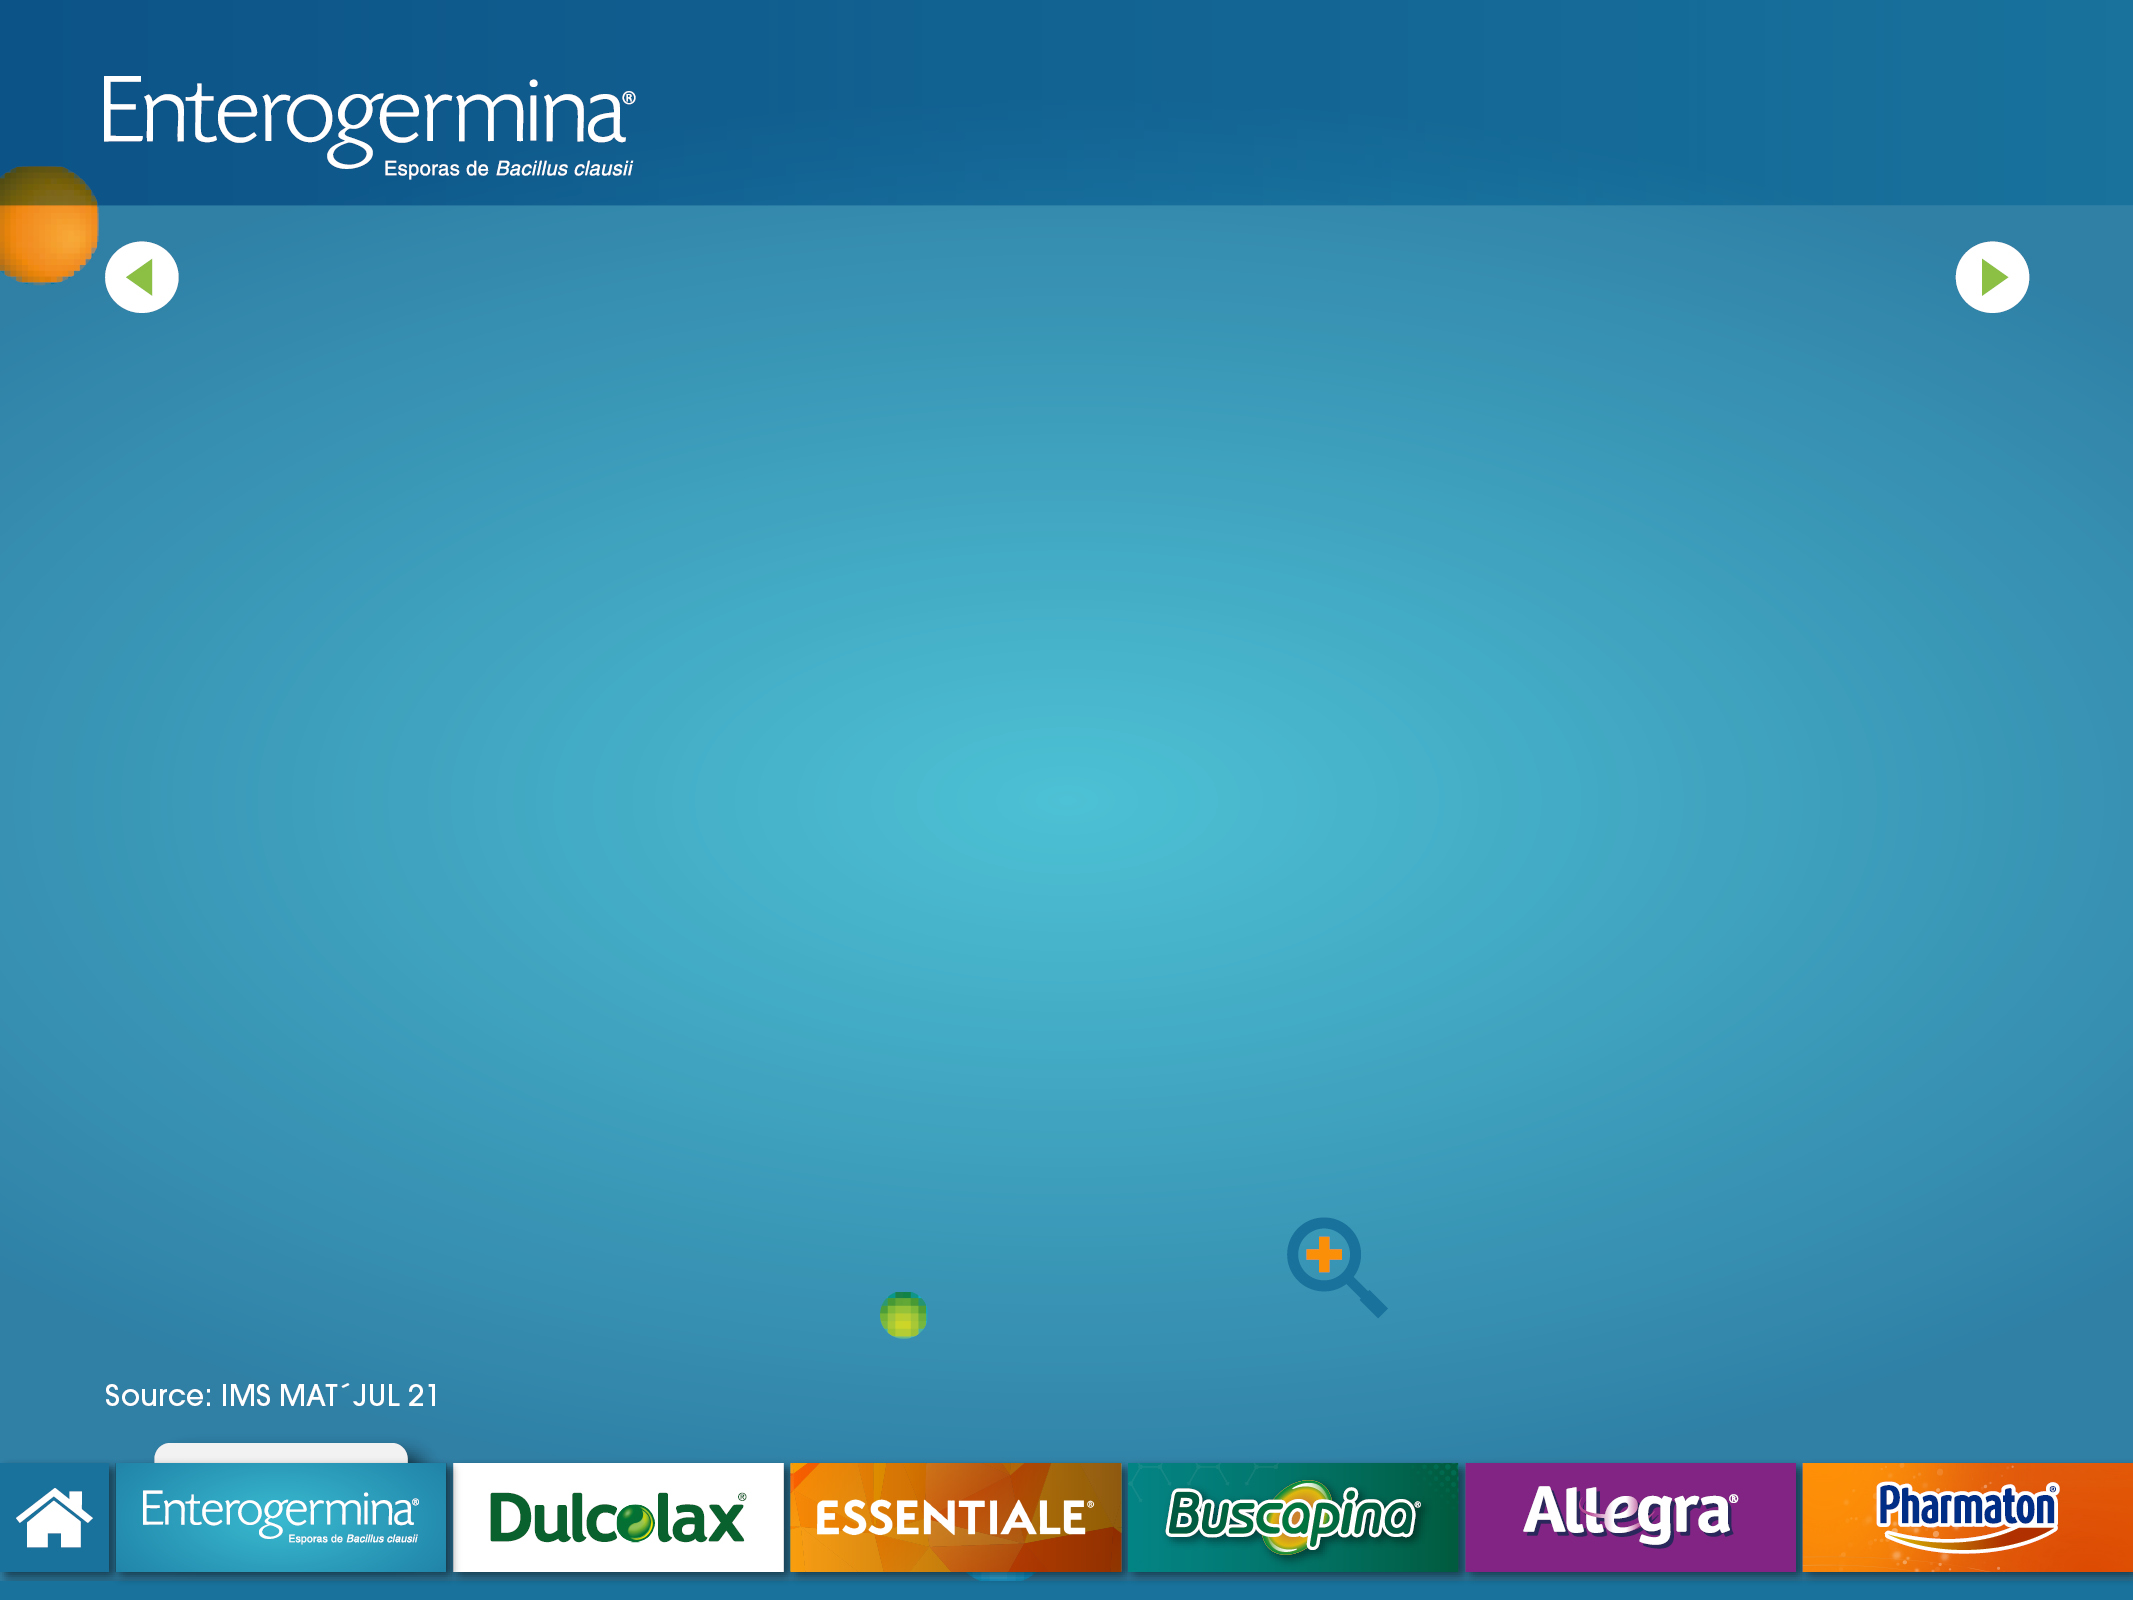
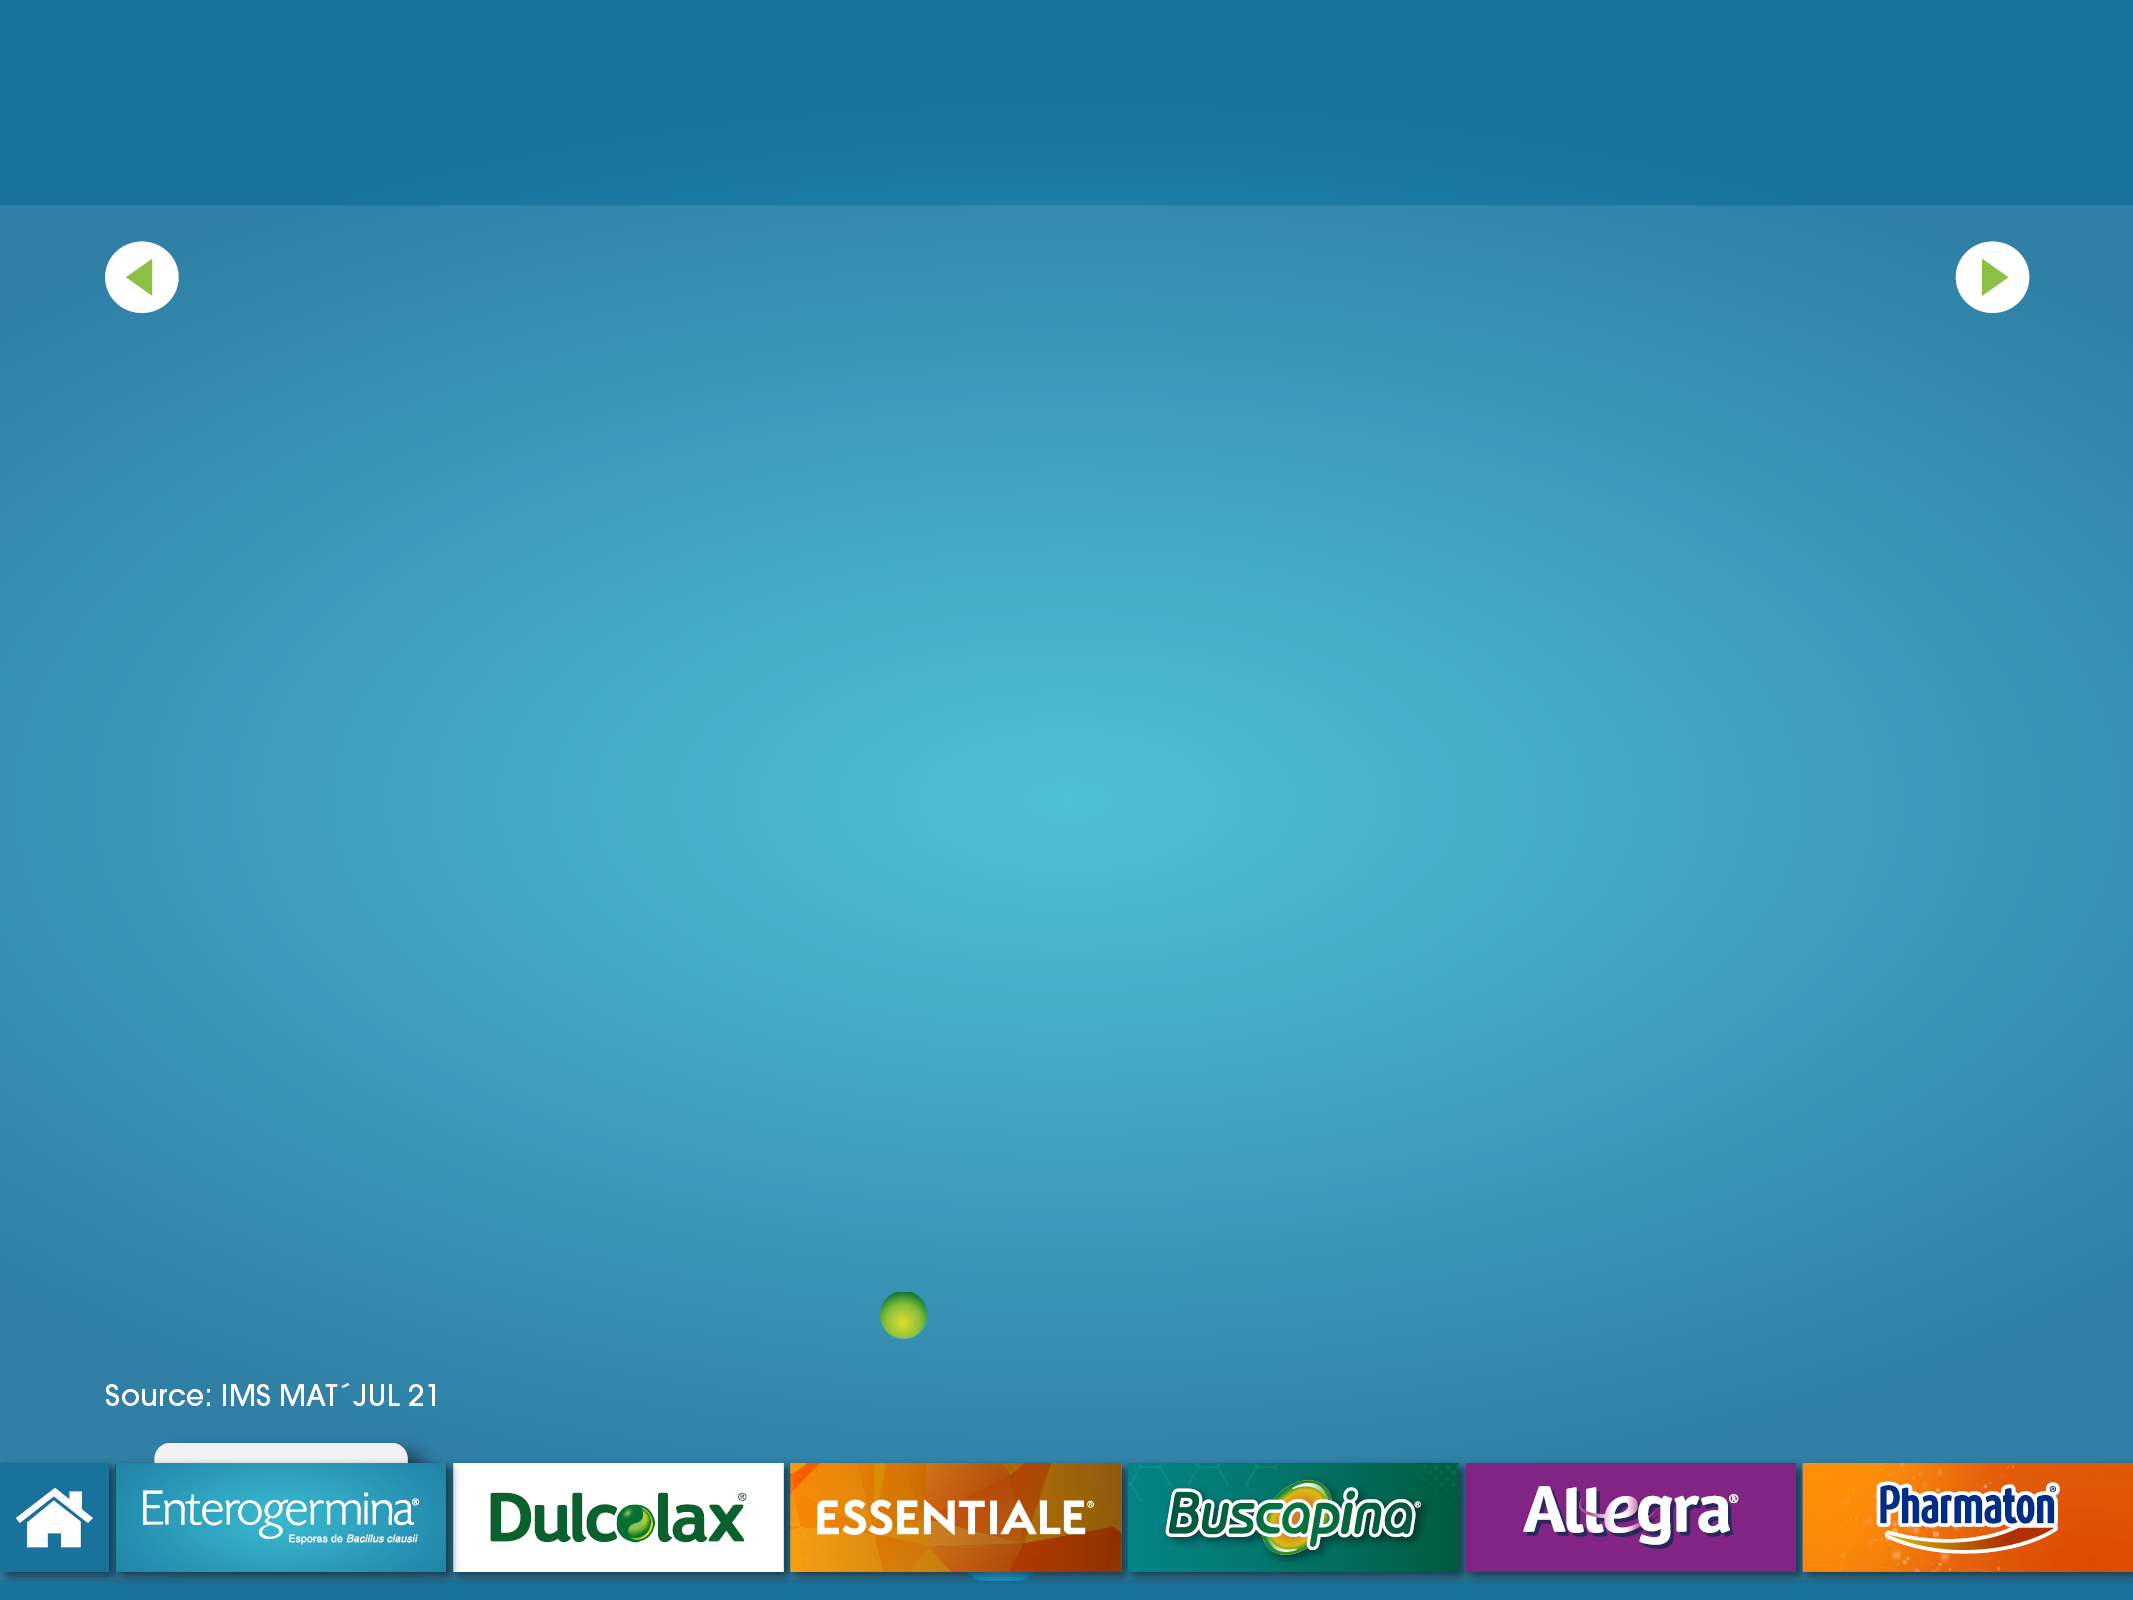
cambio colores

Changed region(s): [[0.0, 0.0, 0.3094, 0.1875], [0.5879, 0.75, 0.6498, 0.8125]]

diff --git a/src/views/enterogermina/slide03.vue b/src/views/enterogermina/slide03.vue
@@ -1,5 +1,8 @@
 <template>
   <div class="fondo4">
+    <div class="heder animate__animated animate__rotateInDownRight">
+      <img src="/images/header.png" alt="" />
+    </div>
     <div class="lat animate__animated animate__rotateInDownRight">
       <img src="/images/lat.png" alt="" />
     </div>
@@ -21,7 +24,9 @@
     <div class="espora_azul-123 animate__animated animate__fadeInDown">
       <img src="/images/bola-azul.png" alt="" height="9%" width="9%" />
     </div>
-
+    <div class="espora_naranja155 animate__animated animate__fadeInDown">
+      <img src="/images/bola-naranja.png" alt="" height="7%" width="7%" />
+    </div>
     <!-- pop up -->
     <div class="popup" style="display: none">
       <img id="ope" src="/images/popup.jpg" alt="" />

diff --git a/src/views/enterogermina/slider04.vue b/src/views/enterogermina/slider04.vue
@@ -15,8 +15,11 @@
     <div class="espora_azul-235 animate__animated animate__fadeInDown">
       <img src="/images/bola-azul.png" alt="" height="7%" width="7%" />
     </div>
-        <div class="espora_verde-235 animate__animated animate__fadeInDown">
+    <div class="espora_verde-235 animate__animated animate__fadeInDown">
       <img src="/images/bola-verde.png" alt="" height="4%" width="4%" />
+    </div>
+    <div class="espora_naranja-245 animate__animated animate__fadeInDown">
+      <img src="/images/bola-naranja.png" alt="" height="127%" width="127%" />
     </div>
 
     <div class="lupaR1" @click.prevent="openModal"></div>

diff --git a/src/assets/css/components/home.css b/src/assets/css/components/home.css
@@ -7,6 +7,19 @@
     overflow: hidden;
     position: absolute;
 }
+.heder {
+    position: absolute;
+    height: 14%;
+    left: -0.2%;
+    top: -1%;
+    width: 94%;
+    z-index: 1;
+}
+
+.heder img {
+    width: 108%;
+    height: auto;
+}
 
 .foto1 {
     position: absolute;
@@ -335,6 +348,11 @@
     left: 94%;
     top: 77%;
 }
+.espora_naranja155{
+    position: absolute;
+    left: -1.5%;
+    top: 9%;
+}
 /* Navegacion */
 
 .nest {
@@ -377,6 +395,11 @@
     position: absolute;
     left: 1%;
     top: 56%;
+}
+.espora_naranja-245{
+    position: absolute;
+    left: 94%;
+    top: 1%
 }
 
 /* Navegacion */
